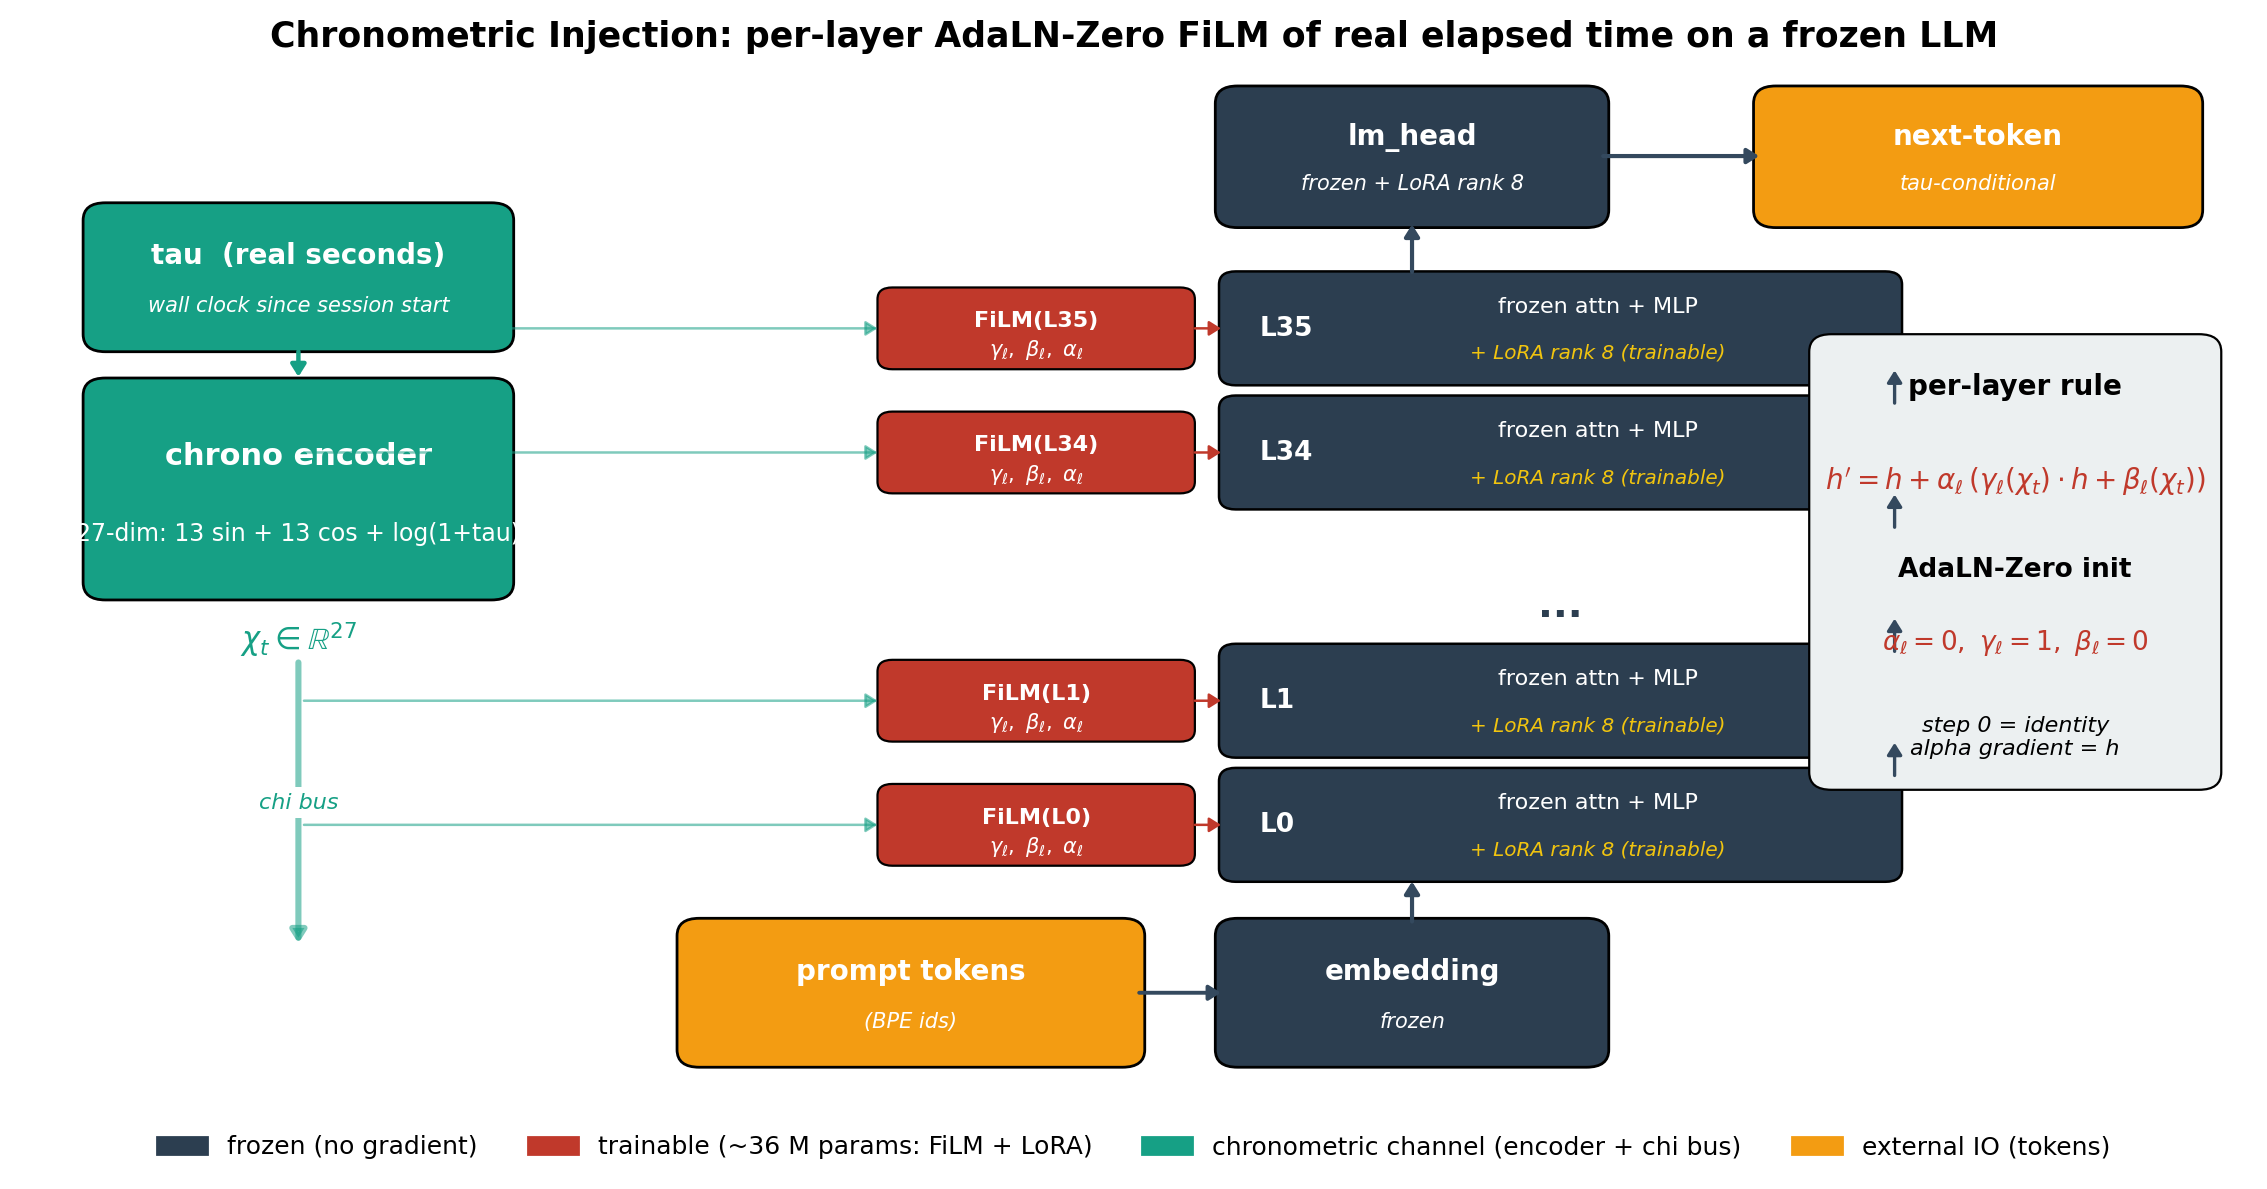
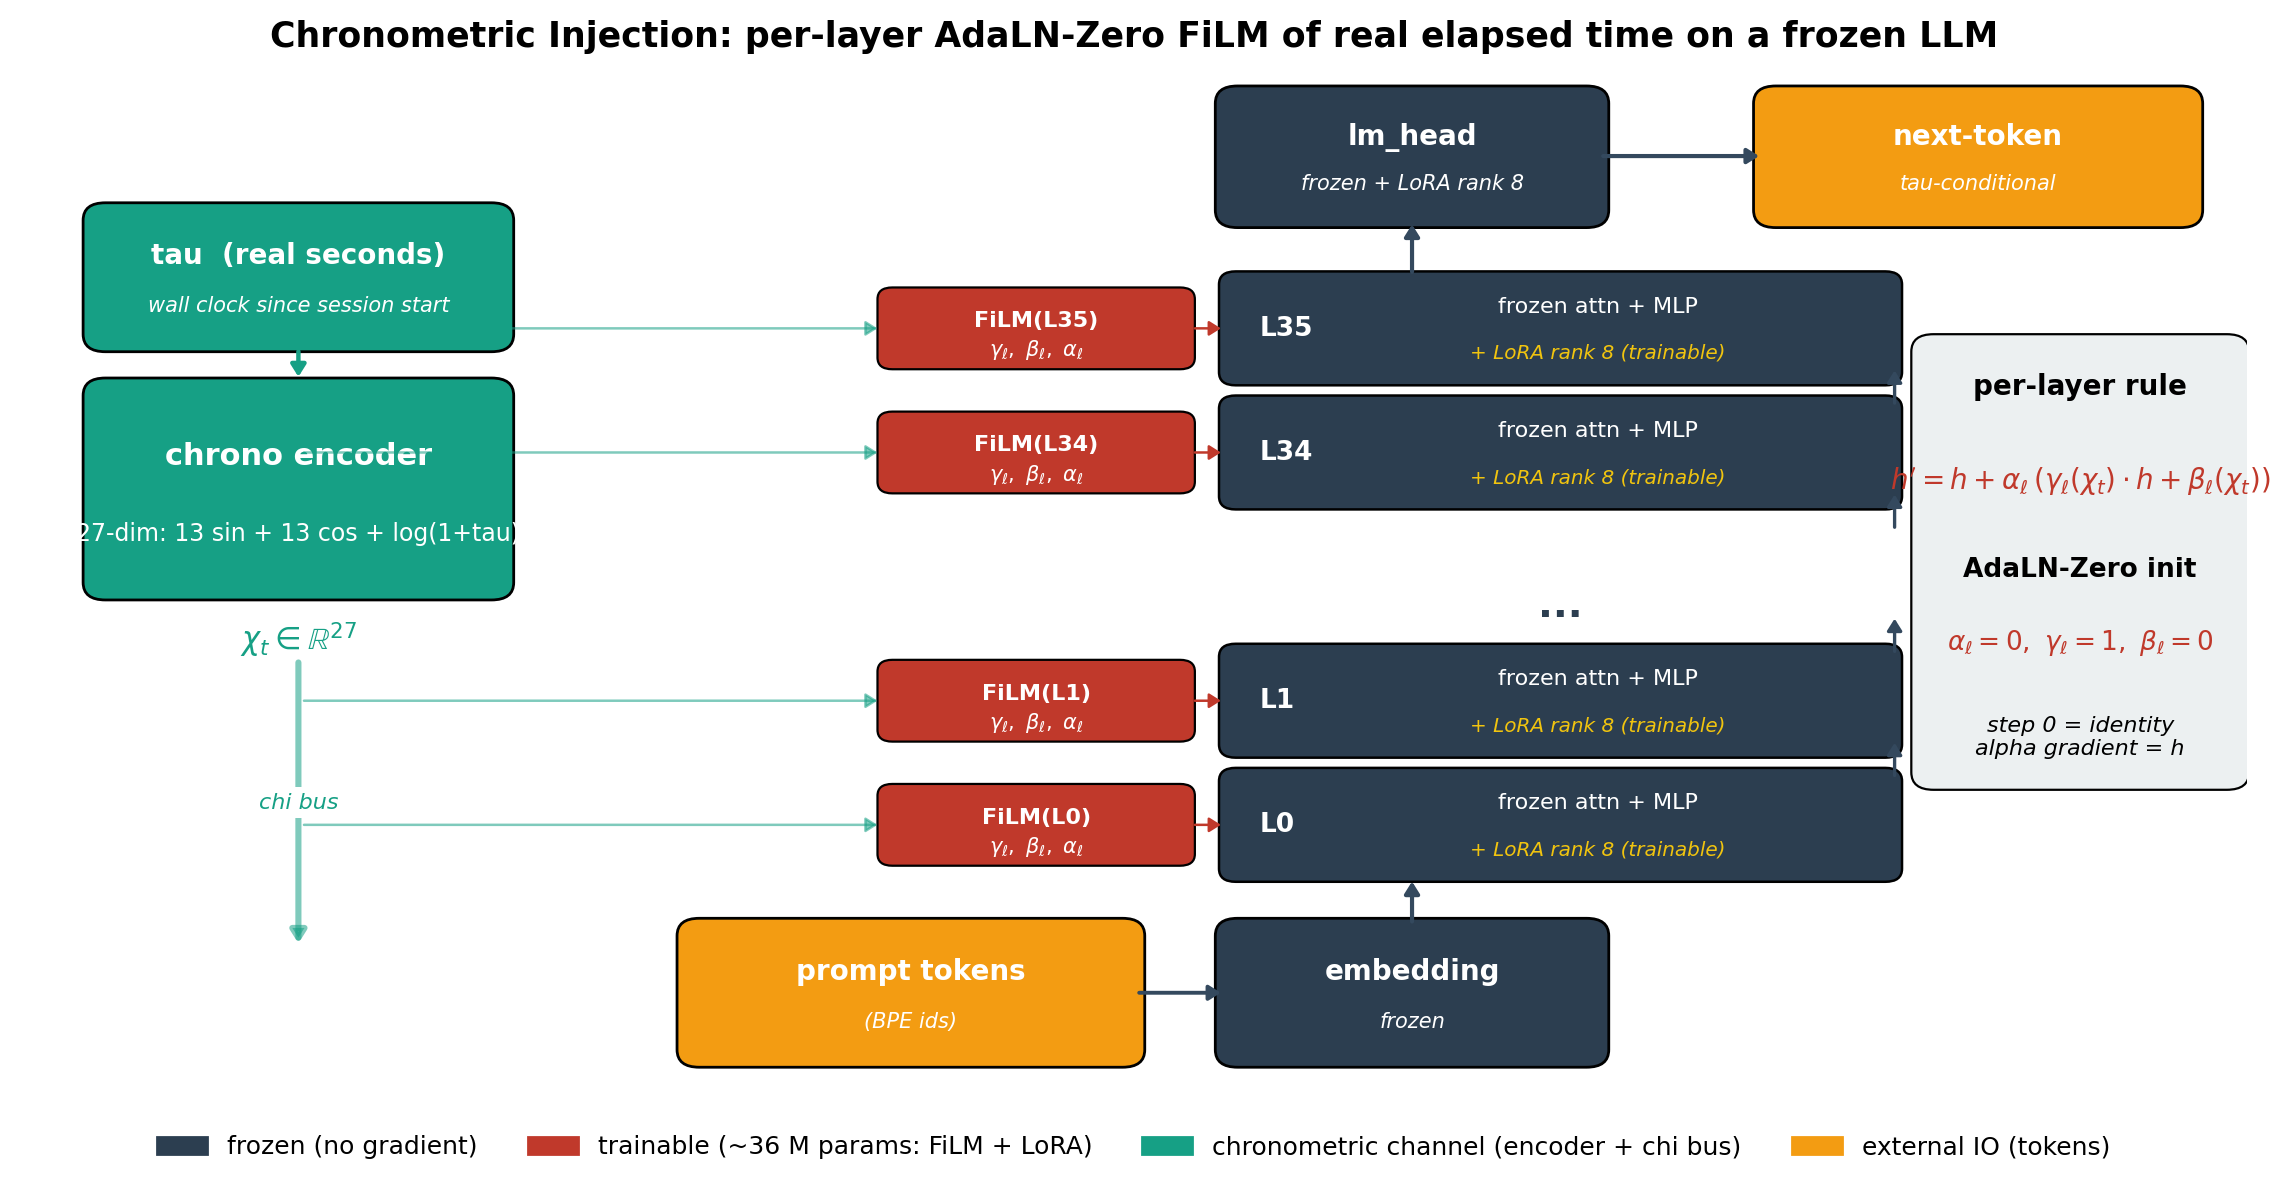
fix(figs): fig9 threshold labels outside bars + fig0 equation panel clears layer column
Fig 9 (cross-seed variance): threshold dashed lines now drawn with zorder=4
and "thr 0.x" labels placed below the line with a white bbox at zorder=5,
so they no longer get buried inside green/yellow bar fills (T2, T4 first-pos,
T1b log-MAE were all affected).

Fig 0 (architecture): equation panel shifted from x=9.7 to x=10.25 (width
2.1 -> 1.7) so the "per-layer rule" box no longer touches the layer column
at x=10.1. Visual breathing room between FiLM(L34/L35) and the rule box.

diff --git a/scripts/make_fig9_cross_seed_variance.py b/scripts/make_fig9_cross_seed_variance.py
@@ -61,12 +61,15 @@ def main() -> None:
                   edgecolor="black", linewidth=0.7,
                   error_kw={"ecolor": "black", "lw": 1.4})
 
-    # threshold dashes per metric
+    # threshold dashes per metric - drawn ABOVE bars with white bbox so they
+    # are not buried inside the bar fill
     for i, thr in enumerate(thresholds):
-        ax.hlines(thr, i - 0.40, i + 0.40, colors="black",
-                  linestyles="--", lw=1.0, alpha=0.8)
-        ax.text(i + 0.42, thr, f"thr {thr}", fontsize=7, va="center",
-                color="black", alpha=0.7)
+        ax.hlines(thr, i - 0.45, i + 0.45, colors="black",
+                  linestyles="--", lw=1.4, alpha=1.0, zorder=4)
+        ax.text(i, thr - 0.045, f"thr {thr}", fontsize=8, va="top",
+                ha="center", color="black", fontweight="bold", zorder=5,
+                bbox=dict(boxstyle="round,pad=0.18", facecolor="white",
+                          edgecolor="black", lw=0.5, alpha=0.95))
 
     # individual seed dots
     for i, vals in enumerate(vals_list):
@@ -98,9 +101,11 @@ def main() -> None:
             edgecolor="black", linewidth=0.7,
             error_kw={"ecolor": "black", "lw": 1.4}, width=0.5)
     ax2.hlines(LOG_MAE_THRESHOLD, -0.30, 0.30, colors="black",
-               linestyles="--", lw=1.0, alpha=0.8)
-    ax2.text(0.35, LOG_MAE_THRESHOLD, f"thr {LOG_MAE_THRESHOLD}",
-             fontsize=8, va="center", alpha=0.7)
+               linestyles="--", lw=1.4, alpha=1.0, zorder=4)
+    ax2.text(0, LOG_MAE_THRESHOLD - 0.025, f"thr {LOG_MAE_THRESHOLD}",
+             fontsize=8, va="top", ha="center", fontweight="bold", zorder=5,
+             bbox=dict(boxstyle="round,pad=0.18", facecolor="white",
+                       edgecolor="black", lw=0.5, alpha=0.95))
     for v in mae["vals"]:
         ax2.plot([-0.12, 0.12], [v, v], color="black", alpha=0.75, lw=0.8)
     ax2.text(0, mean_mae + std_mae + 0.025,

diff --git a/scripts/make_fig0_architecture.py b/scripts/make_fig0_architecture.py
@@ -153,8 +153,9 @@ def main() -> None:
         subtext="tau-conditional", fontsize=10)
     arrow(ax, 8.5, 6.48, 9.4, 6.48, color=FLOW, lw=1.5)
 
-    # --- FAR RIGHT: equation + init ---
-    eq_box_x, eq_box_y, eq_w, eq_h = 9.7, 2.2, 2.1, 3.0
+    # --- FAR RIGHT: equation + init (shifted further right so it doesn't
+    # touch the layer column) ---
+    eq_box_x, eq_box_y, eq_w, eq_h = 10.25, 2.2, 1.7, 3.0
     ax.add_patch(mpatches.FancyBboxPatch(
         (eq_box_x, eq_box_y), eq_w, eq_h,
         boxstyle="round,pad=0.06,rounding_size=0.12",
